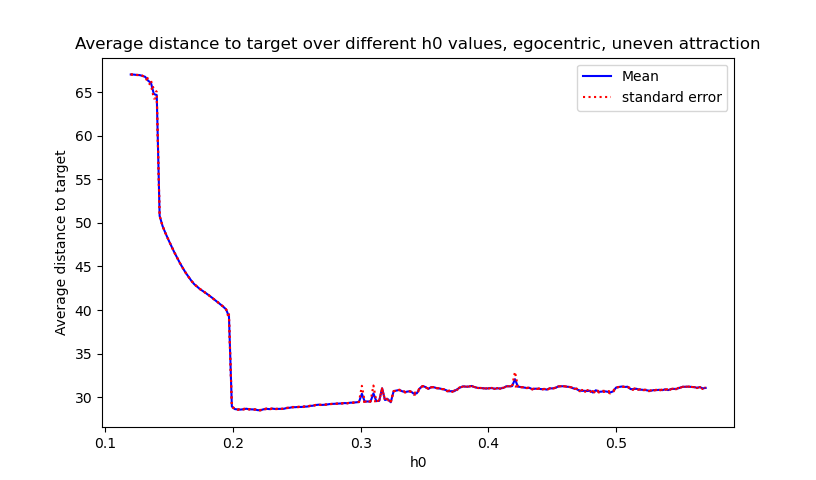
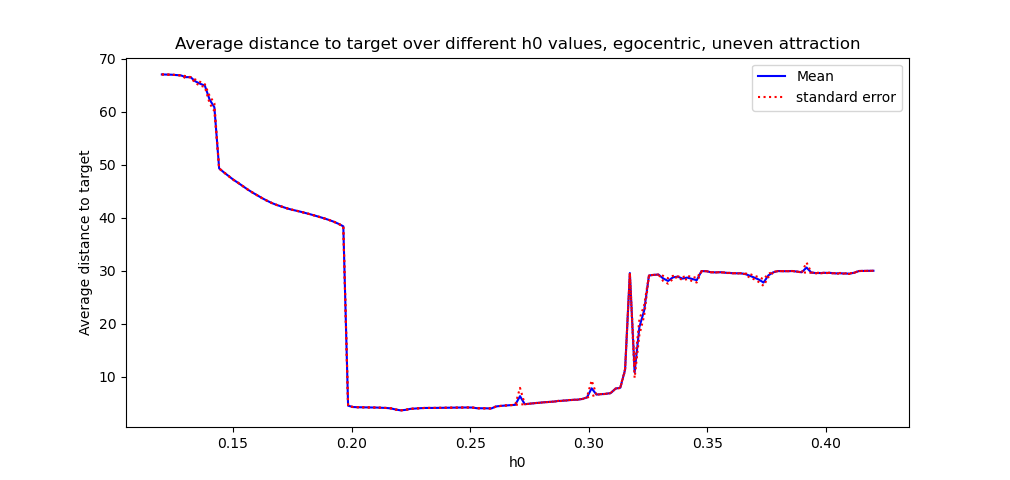
updated plots for uneven egocentric h0

diff --git a/simulations.py b/simulations.py
@@ -91,13 +91,13 @@ base = {'N':N,
         'h_b':h_b,
         'sigma':sigma,
         'beta':beta}
-h0_for_plot = np.linspace(0.28,0.34,num=6) #0.12 to 0.4 for even case
+h0_for_plot = np.linspace(0.12,0.42,num=150) #0.12 to 0.4 for even case
 h0_for_sim = []
 for item in h0_for_plot:
     h0_for_sim.append([item,item])
 change = {'h0':h0_for_sim}
 
-sample_size = 10
+sample_size = 50
 
 success_list, target_list, time_list  = repeated_sims.sample_sims(base,change,sample_size)
 p_success, p_correct = sim_met.get_success_rate(target_list, sample_size, True, 1)
